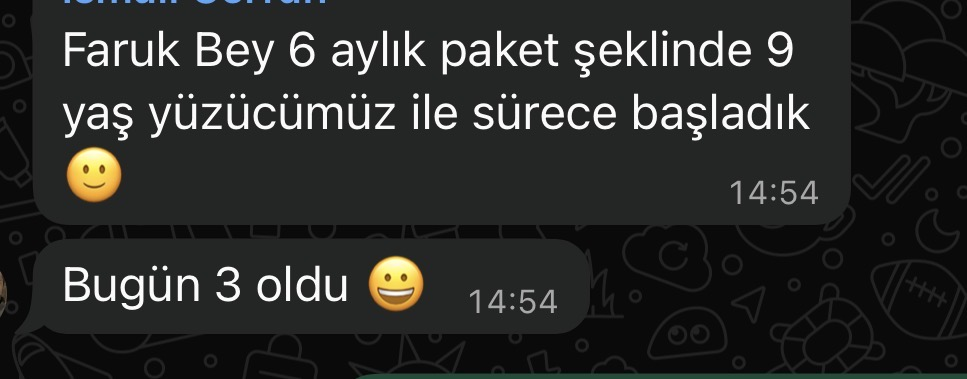
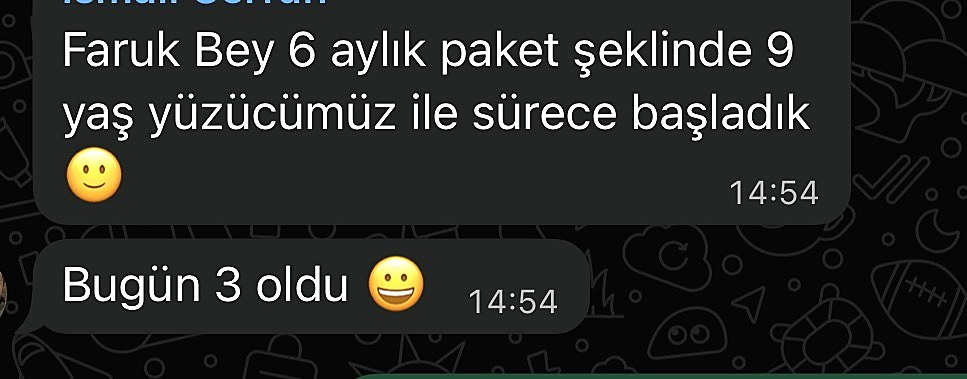
WhatsApp marquee: kart boyutu küçültüldü (460→280px), görseller enhance edildi (kontrast/sharpen)

diff --git a/index.html b/index.html
@@ -1043,15 +1043,16 @@
       position: relative;
       width: 100%;
       overflow: hidden;
-      margin-top: 56px;
-      mask-image: linear-gradient(90deg, transparent 0%, black 6%, black 94%, transparent 100%);
-      -webkit-mask-image: linear-gradient(90deg, transparent 0%, black 6%, black 94%, transparent 100%);
+      margin-top: 48px;
+      padding: 16px 0;
+      mask-image: linear-gradient(90deg, transparent 0%, black 5%, black 95%, transparent 100%);
+      -webkit-mask-image: linear-gradient(90deg, transparent 0%, black 5%, black 95%, transparent 100%);
     }
     .wp-marquee-track {
       display: flex;
-      gap: 28px;
+      gap: 22px;
       width: max-content;
-      animation: wp-scroll-right 80s linear infinite;
+      animation: wp-scroll-right 100s linear infinite;
       will-change: transform;
     }
     .wp-marquee:hover .wp-marquee-track { animation-play-state: paused; }
@@ -1061,28 +1062,43 @@
     }
     .wp-card {
       flex: 0 0 auto;
-      height: 460px;
-      border-radius: 18px;
+      height: 280px;
+      border-radius: 14px;
       overflow: hidden;
-      border: 1px solid var(--border);
+      border: 1px solid rgba(255, 255, 255, 0.08);
       background: var(--bg-card);
       transition: transform 0.35s cubic-bezier(.2,.8,.2,1), border-color 0.35s, box-shadow 0.35s;
-      box-shadow: 0 12px 30px rgba(0, 0, 0, 0.3);
+      box-shadow:
+        0 8px 24px rgba(0, 0, 0, 0.4),
+        inset 0 1px 0 rgba(255, 255, 255, 0.06);
+      position: relative;
+    }
+    .wp-card::after {
+      content: '';
+      position: absolute;
+      inset: 0;
+      border-radius: 14px;
+      box-shadow: inset 0 0 0 1px rgba(0, 0, 0, 0.3);
+      pointer-events: none;
     }
     .wp-card:hover {
-      transform: translateY(-6px) scale(1.02);
+      transform: translateY(-5px) scale(1.04);
       border-color: var(--border-gold);
-      box-shadow: 0 20px 50px rgba(0, 0, 0, 0.5), 0 0 40px rgba(229, 9, 20, 0.2);
+      box-shadow:
+        0 18px 40px rgba(0, 0, 0, 0.55),
+        0 0 30px rgba(229, 9, 20, 0.25);
+      z-index: 2;
     }
     .wp-card img {
       height: 100%;
       width: auto;
       display: block;
       pointer-events: none;
+      filter: contrast(1.05) brightness(1.02);
     }
     @media (max-width: 768px) {
-      .wp-card { height: 340px; }
-      .wp-marquee-track { animation-duration: 60s; }
+      .wp-card { height: 220px; }
+      .wp-marquee-track { animation-duration: 70s; gap: 16px; }
     }
     @media (prefers-reduced-motion: reduce) {
       .wp-marquee-track { animation: none; }
